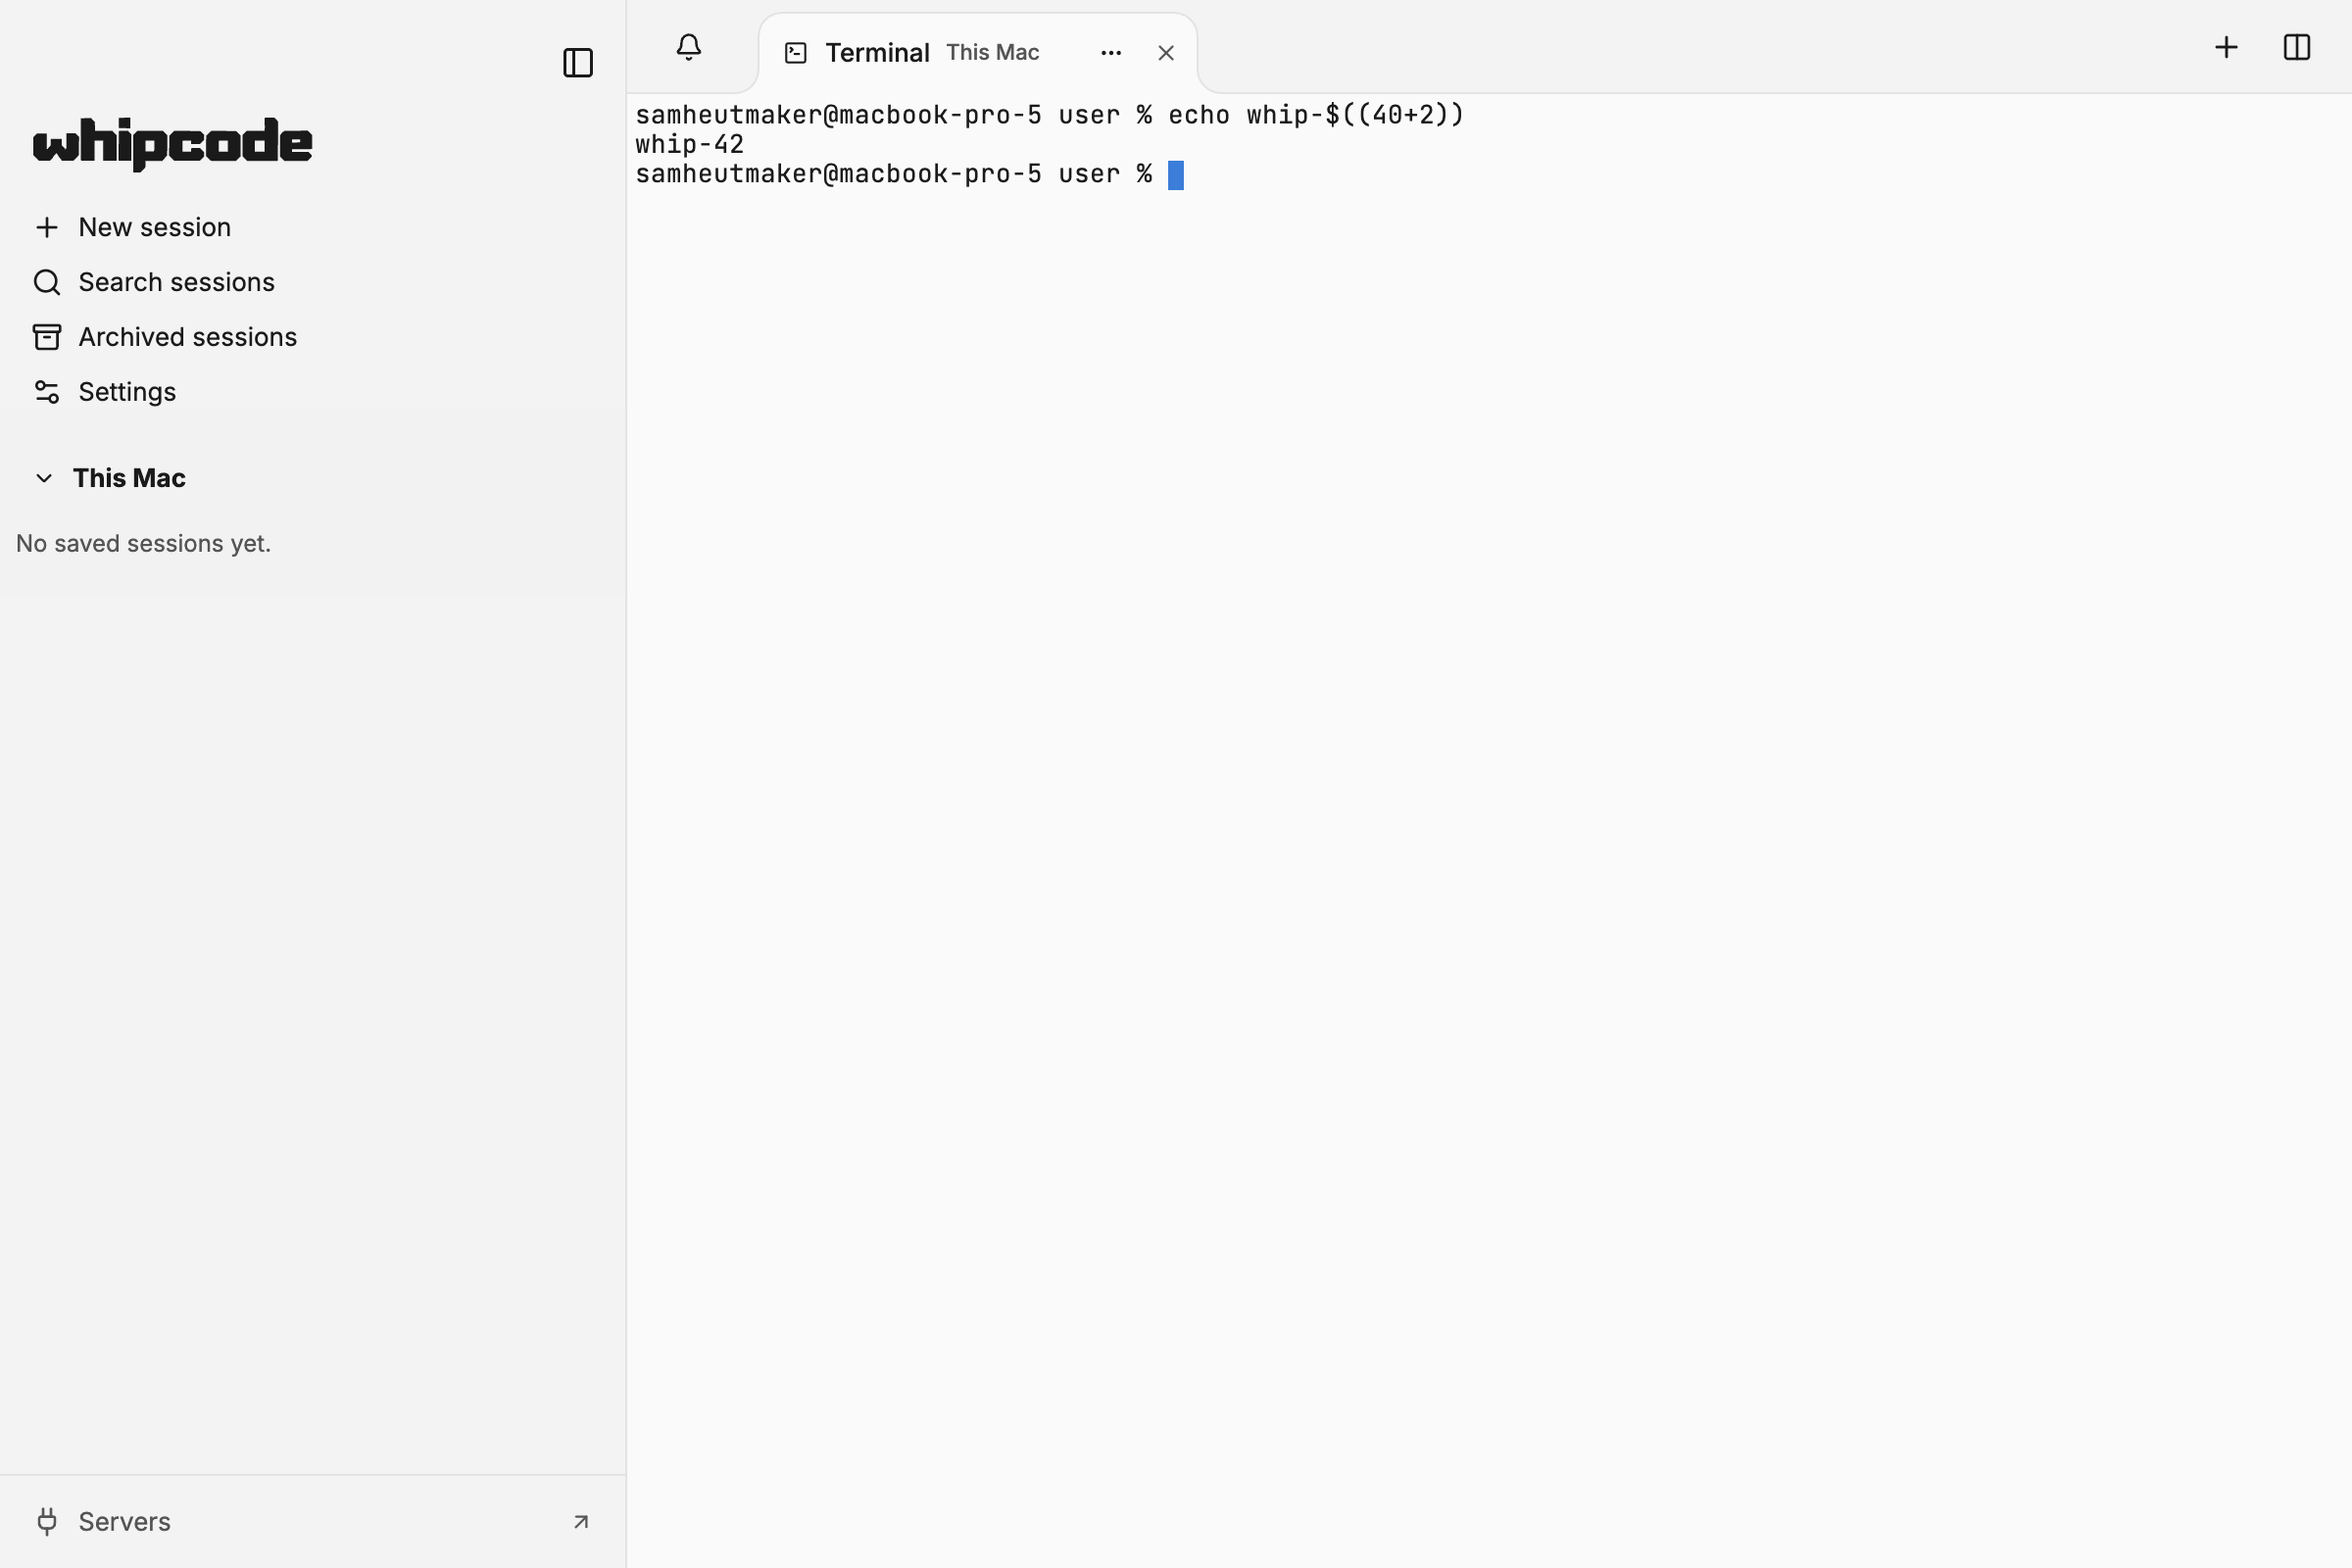
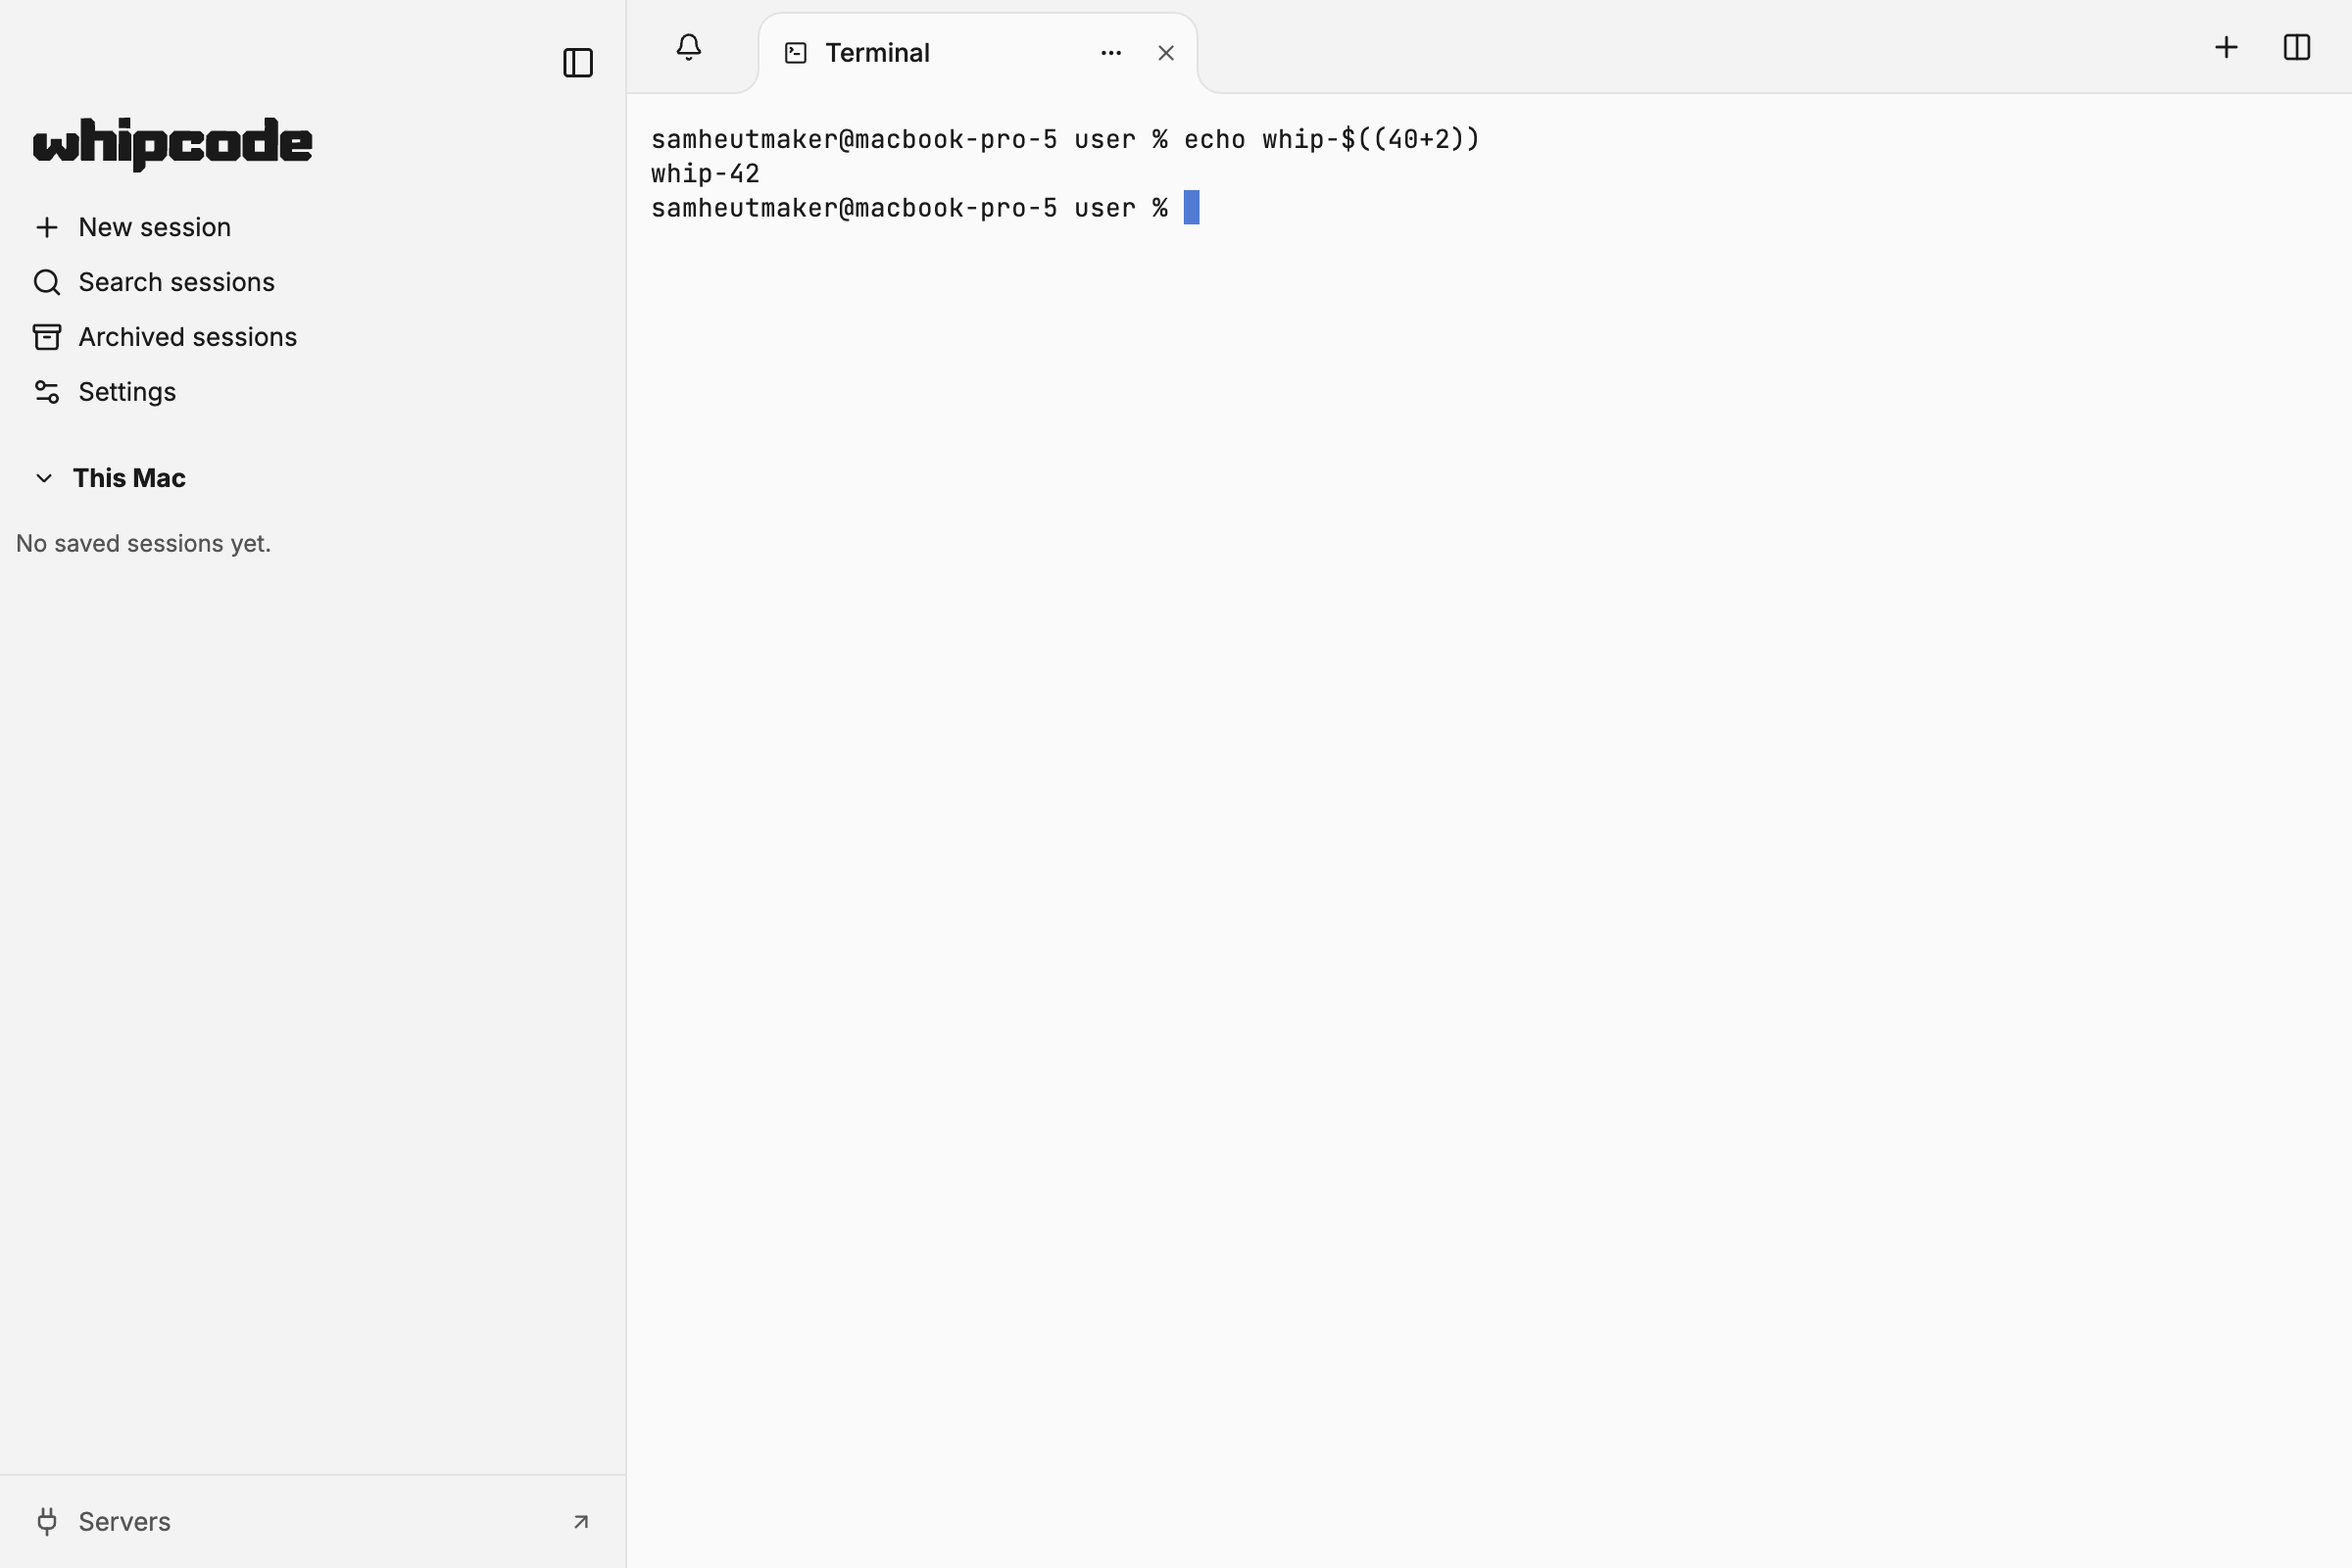
Copy the terminal selection through the native copy command and a context menu
Selecting text in a terminal tab highlighted it, but Cmd+C copied nothing and
right-click offered nothing. On macOS Electron the Edit menu's Copy item
consumes Cmd+C before the page sees a keydown and runs the native copy
command; that command copies the DOM selection, and ghostty draws its
selection on a canvas, so there was nothing to copy.

The view now answers the beforecopy and copy clipboard events on its surface
with the terminal's selection. That is the path the native command, a
browser's default Cmd+C and Edit > Copy all take, so one handler covers them.
A right-click context menu offers Copy, enabled while a selection exists.
Paste keeps using the native paste event; the renderer cannot read the
clipboard, so the menu has no Paste item.

The desktop smoke drags a selection across the first rows, copies through the
Edit menu item and through the context menu, and reads the clipboard back
from the main process; both paths return the selected text.

Changed region(s): [[0.25, 0.0312, 0.625, 0.1562]]

diff --git a/packages/app/src/terminal-view.tsx b/packages/app/src/terminal-view.tsx
@@ -2,7 +2,7 @@ import { useEffect, useRef, useState } from 'react';
 import { useNavigate } from '@tanstack/react-router';
 import { matchesKeyboardEvent, type Hotkey } from '@tanstack/react-hotkeys';
 import * as stylex from '@stylexjs/stylex';
-import { Button } from '@whip/ui';
+import { Button, ContextMenu } from '@whip/ui';
 import { colors, surface, typography } from '@whip/ui/tokens.stylex';
 import { useTheme } from '@whip/ui/themes';
 import type { WhipClient } from '@whip/sdk';
@@ -130,6 +130,7 @@ export function TerminalView({ tab, client, focused }: { tab: TerminalTab; clien
   const [status, setStatus] = useState<TerminalStatus>({ kind: 'loading' });
   /** The renderer exists; output arriving earlier waits in pending. */
   const [ready, setReady] = useState(false);
+  const [hasSelection, setHasSelection] = useState(false);
   const [attachEpoch, setAttachEpoch] = useState(0);
   const shortcuts = [preferences.commandShortcut, preferences.composerShortcut, preferences.terminalShortcut];
   const shortcutsRef = useRef(shortcuts);
@@ -145,6 +146,12 @@ export function TerminalView({ tab, client, focused }: { tab: TerminalTab; clien
     cursor.current = -1;
     pending.current = [];
     let disposed = false;
+    const allowCopy = (event: Event) => { if (terminal?.hasSelection()) event.preventDefault(); };
+    const copySelection = (event: ClipboardEvent) => {
+      if (!terminal?.hasSelection()) return;
+      event.preventDefault();
+      event.clipboardData?.setData('text/plain', terminal.getSelection());
+    };
     let observer: ResizeObserver | undefined;
     let resizeTimer: ReturnType<typeof setTimeout> | undefined;
     let terminal: Terminal | undefined;
@@ -190,6 +197,12 @@ export function TerminalView({ tab, client, focused }: { tab: TerminalTab; clien
         return true;
       });
       terminal.onTitleChange(title => runtime.tabs.updateTerminal(tab.id, { titleHint: title }));
+      terminal.onSelectionChange(() => setHasSelection(terminal?.hasSelection() ?? false));
+      // The selection lives on the canvas, so the native copy command (the Edit menu's
+      // Cmd+C on macOS Electron, or a browser's default) finds no DOM selection. Answer
+      // the clipboard events instead: beforecopy enables the command, copy supplies the text.
+      element.addEventListener('beforecopy', allowCopy);
+      element.addEventListener('copy', copySelection);
       terminal.onResize(({ cols, rows }) => {
         clearTimeout(resizeTimer);
         resizeTimer = setTimeout(() => { void client.terminals.resize(terminalId, cols, rows).catch(() => {}); }, 100);
@@ -209,9 +222,12 @@ export function TerminalView({ tab, client, focused }: { tab: TerminalTab; clien
       disposed = true;
       clearTimeout(resizeTimer);
       observer?.disconnect();
+      element.removeEventListener('beforecopy', allowCopy);
+      element.removeEventListener('copy', copySelection);
       terminal?.dispose();
       term.current = null;
       setReady(false);
+      setHasSelection(false);
     };
     // Theme changes remount through the strip's key; colors are read once here.
     // eslint-disable-next-line react-hooks/exhaustive-deps
@@ -283,8 +299,11 @@ export function TerminalView({ tab, client, focused }: { tab: TerminalTab; clien
     : status.kind === 'detached' ? 'Attached in another window.'
     : status.kind === 'reconnecting' ? 'Reconnecting to the host…'
     : status.kind === 'loading' ? 'Starting terminal…' : undefined;
-  return <div {...stylex.props(styles.frame)} data-terminal-view={terminalId} data-terminal-status={status.kind}>
-    <div ref={container} {...stylex.props(styles.surface)} />
+  const copySelected = () => { const text = term.current?.getSelection(); if (text) void runtime.platform.copy(text).catch(error => runtime.reportWorkspace(error)); };
+  return <div {...stylex.props(styles.frame)} data-terminal-view={terminalId} data-terminal-status={status.kind} data-terminal-selection={hasSelection ? 'true' : 'false'}>
+    <ContextMenu items={[{ id: 'copy', label: 'Copy', disabled: !hasSelection, onSelect: copySelected }]}>
+      <div ref={container} {...stylex.props(styles.surface)} />
+    </ContextMenu>
     {status.kind === 'error' && <div {...stylex.props(styles.bar)}><ErrorNotice type="resource" owner={`terminal:${terminalId}`} title="Terminal is unavailable" error={status.message} action={<Button variant="ghost" onClick={() => setAttachEpoch(value => value + 1)}>Try again</Button>} /></div>}
     {notice && <div role="status" {...stylex.props(styles.bar)}>
       <span {...stylex.props(layout.grow)}>{notice}</span>

diff --git a/packages/app/test/terminal-view.test.tsx b/packages/app/test/terminal-view.test.tsx
@@ -33,6 +33,7 @@ const ghostty = vi.hoisted(() => {
     onData = this.on('data'); onResize = this.on('resize'); onTitleChange = this.on('title');
     hasSelection() { return this.selection !== ''; }
     getSelection() { return this.selection; }
+    onSelectionChange = this.on('selection');
     emit(name: string, value: unknown) { for (const listener of this.handlers.get(name) ?? []) listener(value); }
   }
   class FitAddon { fit = vi.fn(); }
@@ -155,6 +156,29 @@ it('keeps one write in flight and coalesces keystrokes typed meanwhile, in order
   failing.push('lost'); failing.push('too');
   await waitFor(() => expect(errors).toHaveLength(1));
   expect(failing.pendingBytes).toBe(0);
+});
+
+it('answers the native copy command with the canvas selection and offers Copy on right-click', async () => {
+  const fake = fakeClient();
+  const { view } = mount(fake.client);
+  const instance = await ready();
+  const surface = view.container.querySelector('[data-terminal-view] > div, [data-terminal-view] div') as HTMLElement;
+  const clipboard = { setData: vi.fn() };
+  const copyEvent = () => Object.assign(new Event('copy', { bubbles: true, cancelable: true }), { clipboardData: clipboard });
+  const beforeCopy = () => new Event('beforecopy', { bubbles: true, cancelable: true });
+  // Nothing selected: the events pass through untouched.
+  expect(surface.dispatchEvent(beforeCopy())).toBe(true);
+  expect(surface.dispatchEvent(copyEvent())).toBe(true);
+  expect(clipboard.setData).not.toHaveBeenCalled();
+  instance.selection = 'whip-42';
+  act(() => instance.emit('selection', undefined));
+  expect(view.container.querySelector('[data-terminal-view]')!.getAttribute('data-terminal-selection')).toBe('true');
+  expect(surface.dispatchEvent(beforeCopy())).toBe(false);
+  expect(surface.dispatchEvent(copyEvent())).toBe(false);
+  expect(clipboard.setData).toHaveBeenCalledWith('text/plain', 'whip-42');
+  instance.selection = '';
+  act(() => instance.emit('selection', undefined));
+  expect(view.container.querySelector('[data-terminal-view]')!.getAttribute('data-terminal-selection')).toBe('false');
 });
 
 it('turns wheel travel into SGR mouse reports at the cell under the pointer', () => {

diff --git a/.ai-docs/plans/terminal-tabs/README.md b/.ai-docs/plans/terminal-tabs/README.md
@@ -423,6 +423,13 @@ reader of the plan is not misled:
   cell under the pointer, one per line, accumulating trackpad pixels across events. Otherwise
   ghostty-web's defaults stand (arrows in the alternate screen, scrollback in the primary one).
   The fixture runs `cat -v` with mouse tracking enabled and asserts the reports arrive.
+- **Copy on macOS Electron.** The Edit menu's Copy item consumes Cmd+C before the page sees a
+  keydown and runs the native copy command, which found no DOM selection because ghostty draws
+  its selection on the canvas. The view answers the `beforecopy` and `copy` clipboard events on its
+  surface with the terminal selection, which is how the native command, browsers' default Cmd+C
+  and Edit > Copy all resolve; a right-click context menu offers Copy as well. Paste stays on the
+  native paste event (Cmd+V, Edit > Paste); the context menu has no Paste because the renderer
+  cannot read the clipboard. The desktop smoke drags a selection and copies through both paths.
 - **Keystroke coalescing.** Each key was its own `terminal.write` RPC; typing faster than the
   round trip exceeded the SDK's 32 in-flight request cap and silently dropped characters
   (the glyph check lost everything past the 32nd byte). `createWriteQueue` keeps one write in
